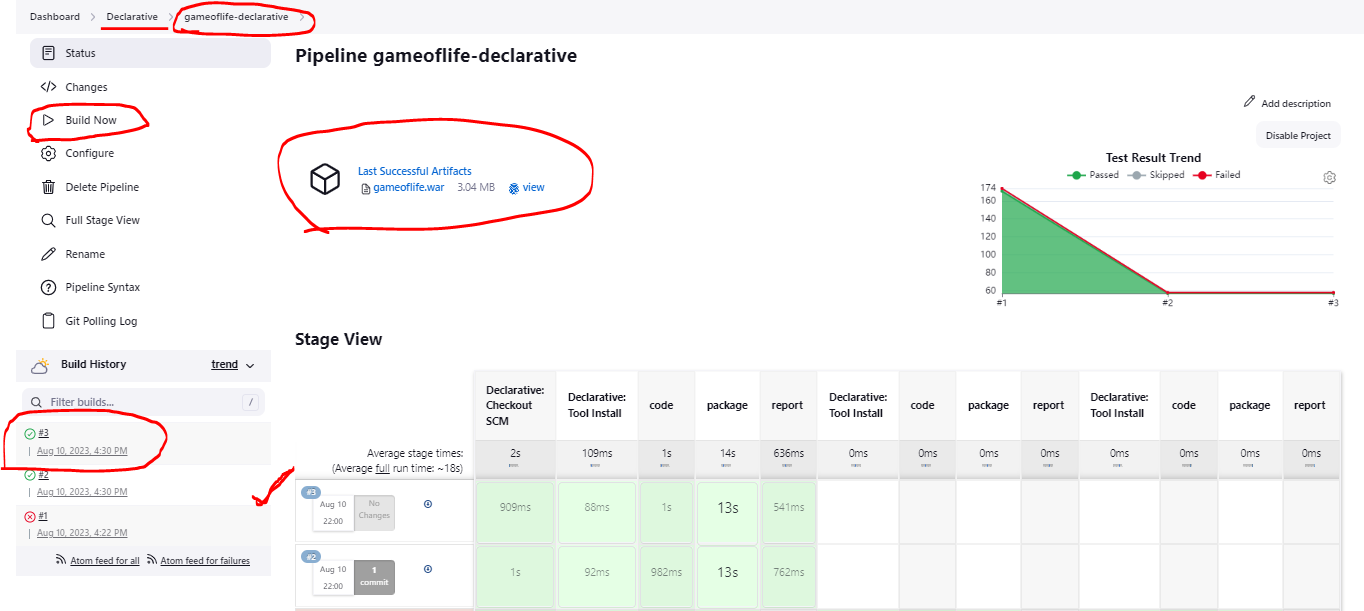
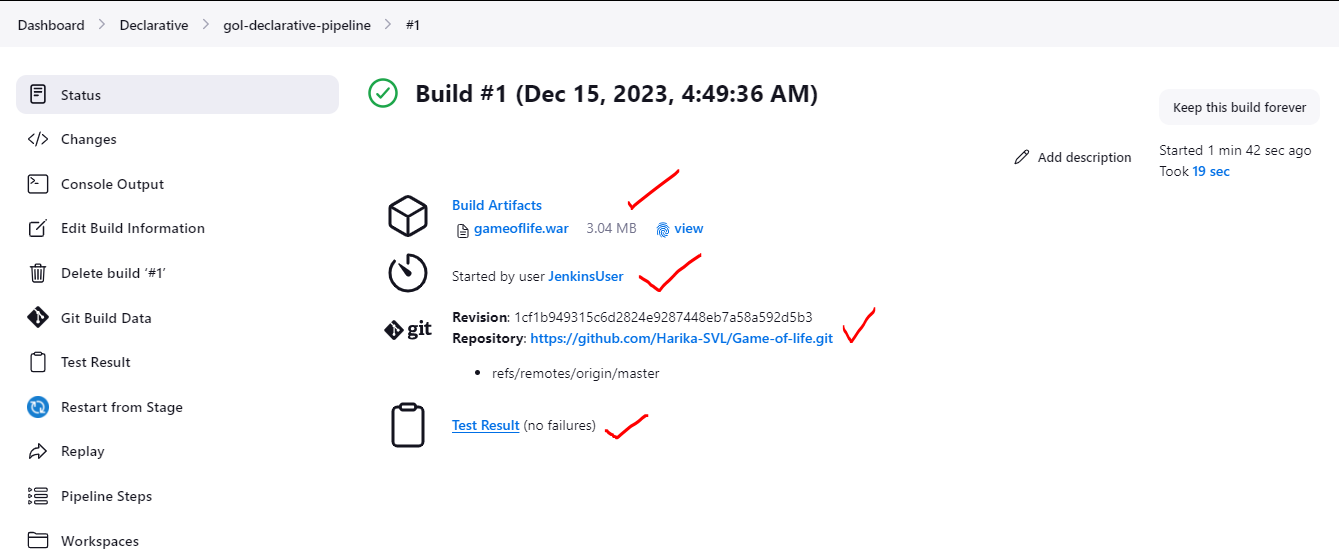
Changes Updated

diff --git a/notes.md b/notes.md
@@ -1257,7 +1257,7 @@ pipeline{
 
 * For the repository
   
-  [Refer Here : https://github.com/Harika-SVL/game-of-life.git]
+  [Refer Here : https://github.com/Harika-SVL/Game-of-life.git]
 
   ![Alt text](shots/146.PNG)
 
@@ -1317,7 +1317,7 @@ pipeline {
     stages {
         stage('code') {
             steps {
-                git url: 'https://github.com/Harika-SVL/game-of-life.git',
+                git url: 'https://github.com/Harika-SVL/Game-of-life.git',
                     branch: 'master'
             }
         }
@@ -1342,13 +1342,13 @@ pipeline {
 
   ![Alt text](shots/147.PNG)
 
-* Create a project 'gameoflife-declarative' and Build Now
+* Create a project 'gol-declarative-pipeline' and Build Now
 
-=> Declarative view => New Item => name : gameoflife-declarative => Pipeline => OK
+=> Declarative view => New Item => name : gol-declarative-pipeline => Pipeline => OK
 
   ![Alt text](shots/148.PNG)
 
-=> Pipeline => Pipeline script from SCM => Git => URL : https://github.com/Harika-SVL/game-of-life.git => Branch : master => Path : Jenkinsfile => Save
+=> Pipeline => Pipeline script from SCM => Git => URL : https://github.com/Harika-SVL/Game-of-life.git => Branch : master => Path : Jenkinsfile => Save
 
   ![Alt text](shots/149.PNG)
   ![Alt text](shots/150.PNG)
